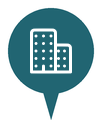
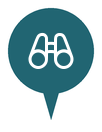
Views wears binoculars, not an office block
The Views category ("Ngắm cảnh") and its vibe drew `business-outline`,
chosen once for "skyline". The icon audit found it the one glyph in the
app that said something other than its label: beside a cup and a wine
glass it reads as offices, and much of the category is a hill, a bridge
or a riverbank.

`binoculars-outline` says the act of looking out. The map pins for
`views` are redrawn from the table (`scripts/map-pins.py`); the other
pins are untouched.

Claude-Session: https://claude.ai/code/session_019hzeGMUFHXNDQXWNA3UQs4

Changed region(s): [[0.2647, 0.2121, 0.7353, 0.5758]]

diff --git a/app/src/lib/categories.ts b/app/src/lib/categories.ts
@@ -144,8 +144,18 @@ const STYLES = {
     pin: '#B16133', food: true,
     terms: ['restaurant', 'food', 'dining', 'lunch', 'dinner', 'nhà hàng', 'quán ăn', 'ăn uống', 'レストラン', 'グルメ', '餐厅', '美食', '餐廳'],
   },
+  // Binoculars since 18 Nov 2026. It was `business-outline`, an office
+  // block, chosen for "skyline": an audit of every glyph in the app found
+  // it the one mark that said something else — on a chip beside a cup and
+  // a wine glass it read as "offices", and half of what the category
+  // holds is a hill, a bridge or a riverbank with no tower in sight.
+  // Binoculars say the act, looking out, which is what the five names
+  // say. Not `eye-outline`: that is a collection's view count
+  // (`CollectionStatsScreen`) and "who can see this". Not
+  // `telescope-outline`: it reads as stars. Not `image-outline`: that is
+  // a photograph (`photoKind`).
   views: {
-    en: 'Views', vi: 'Ngắm cảnh', ja: '眺望', zh: '观景', hant: '觀景', icon: 'business-outline', color: '#6FB3C0',
+    en: 'Views', vi: 'Ngắm cảnh', ja: '眺望', zh: '观景', hant: '觀景', icon: 'binoculars-outline', color: '#6FB3C0',
     pin: '#216572',
     terms: ['rooftop', 'skyline', 'scenic', 'view', 'ngắm cảnh', 'tầng thượng', '展望', '天台', '观景', '頂樓', '觀景'],
   },

diff --git a/app/src/lib/vibes.ts b/app/src/lib/vibes.ts
@@ -42,7 +42,7 @@ export const VIBES: Record<string, VibeStyle> = {
   cafes: { icon: 'cafe-outline', en: 'Cafés', vi: 'Cà phê', ja: 'カフェ', zh: '咖啡馆', hant: '咖啡館' },
   food_tour: { icon: 'restaurant-outline', en: 'Food', vi: 'Ăn uống', ja: 'グルメ', zh: '美食', hant: '美食' },
   nightlife: { icon: 'wine-outline', en: 'Nightlife', vi: 'Về đêm', ja: 'ナイトライフ', zh: '夜生活', hant: '夜生活' },
-  views: { icon: 'business-outline', en: 'Views', vi: 'Ngắm cảnh', ja: '眺望', zh: '观景', hant: '觀景' },
+  views: { icon: 'binoculars-outline', en: 'Views', vi: 'Ngắm cảnh', ja: '眺望', zh: '观景', hant: '觀景' },
   culture: { icon: 'library-outline', en: 'Culture', vi: 'Văn hóa', ja: 'カルチャー', zh: '文化', hant: '文化' },
   outdoors: { icon: 'leaf-outline', en: 'Nature', vi: 'Thiên nhiên', ja: '自然', zh: '自然', hant: '自然' },
   chill: { icon: 'happy-outline', en: 'Chill', vi: 'Thư giãn', ja: 'のんびり', zh: '放松', hant: '放鬆' },
